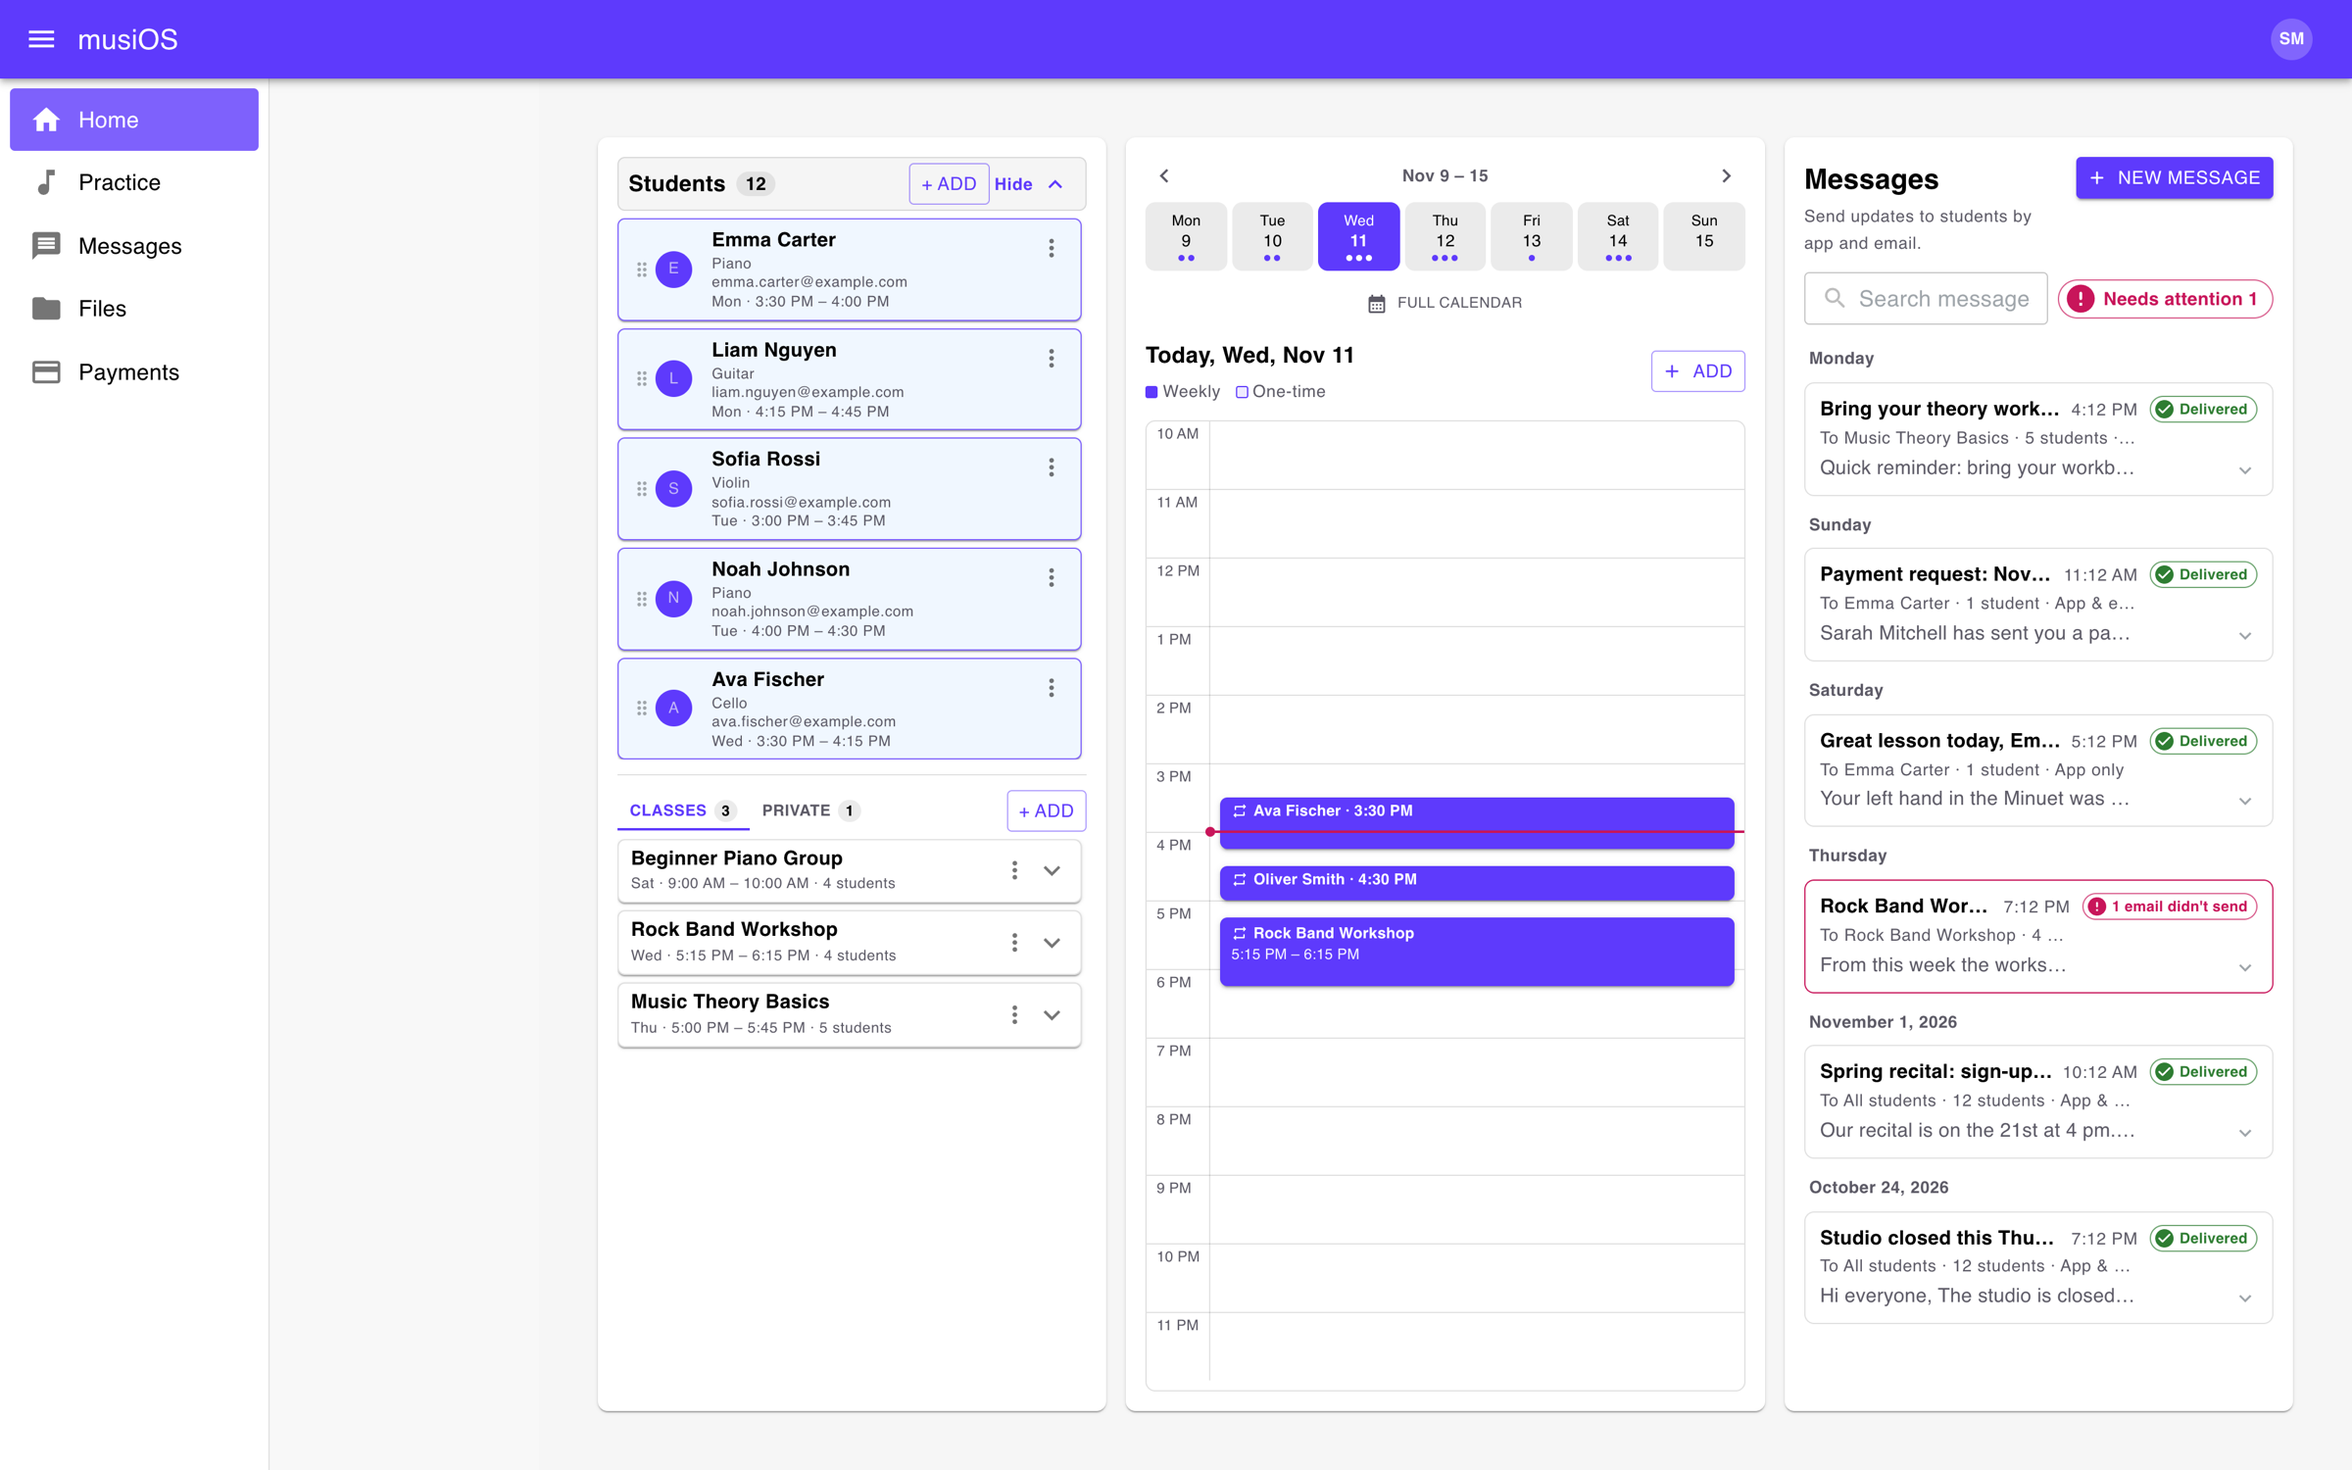
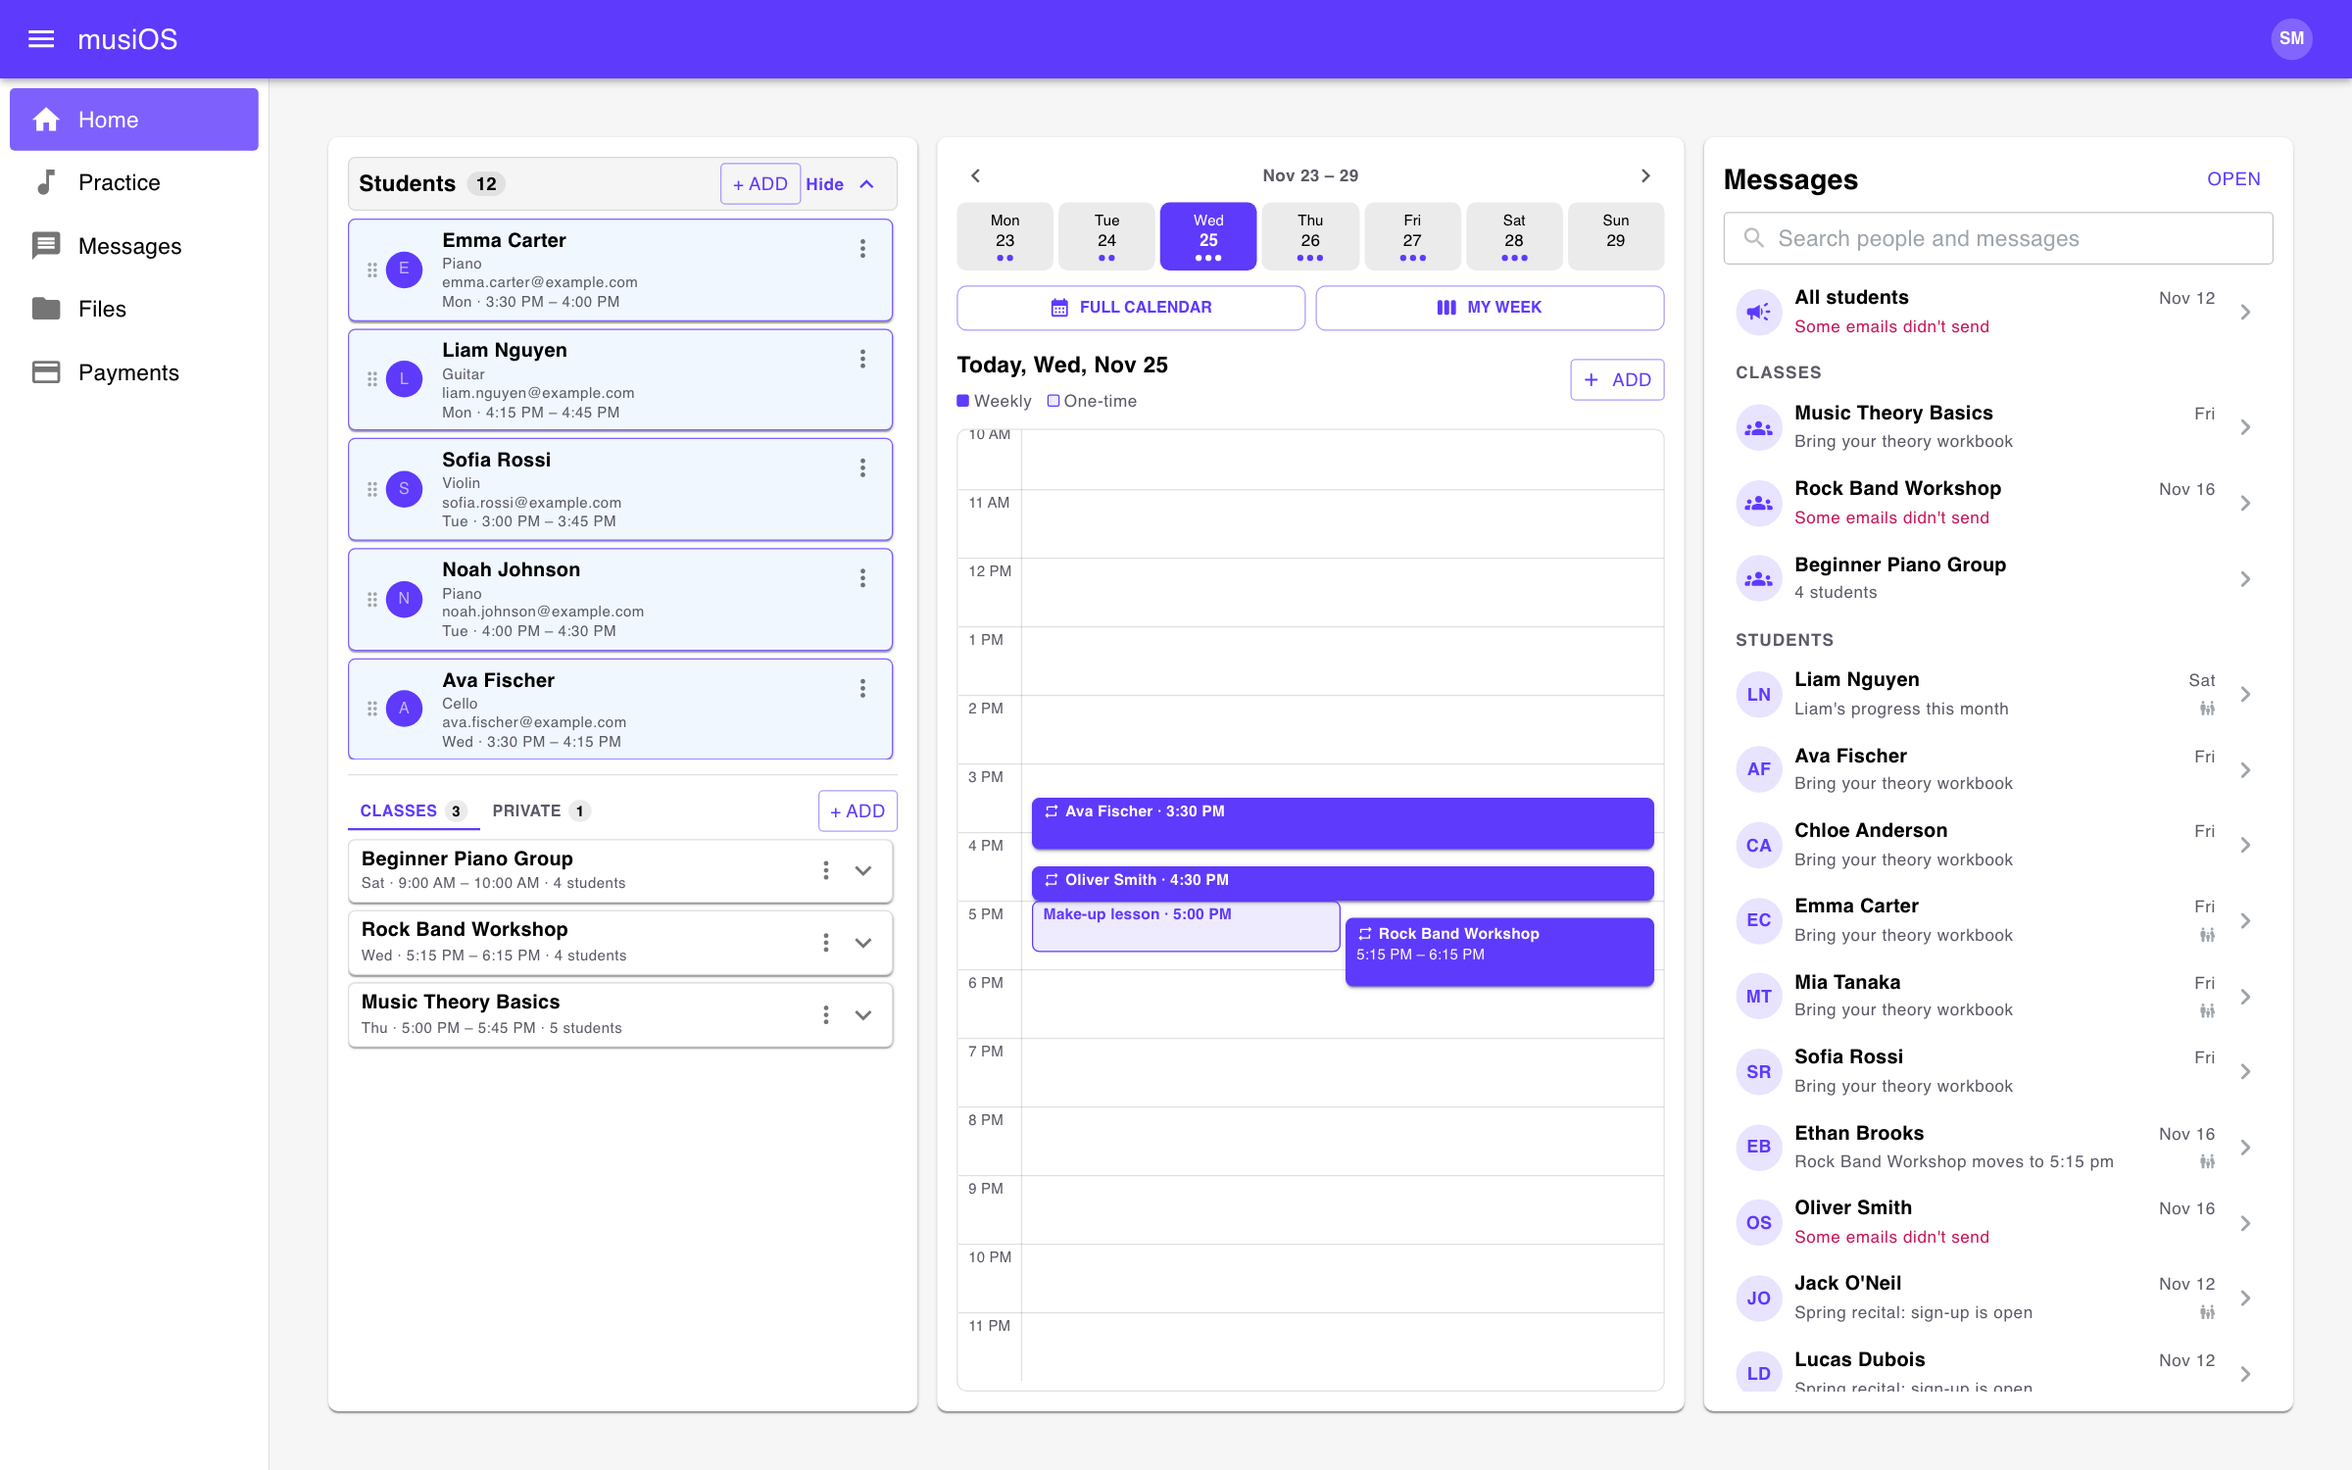
updates

diff --git a/components/Features.tsx b/components/Features.tsx
@@ -1,5 +1,5 @@
-import { MdCalendarMonth, MdQueueMusic, MdPayments, MdHandshake, MdForum, MdCheck } from "react-icons/md";
-import { PhoneFrame } from "./Frames";
+import { MdCalendarMonth, MdFamilyRestroom, MdQueueMusic, MdPayments, MdHandshake, MdForum, MdCheck } from "react-icons/md";
+import { LandscapePhoneFrame, PhoneFrame } from "./Frames";
 import Reveal from "./Reveal";
 import Screen from "./Screen";
 import SectionHeading from "./SectionHeading";
@@ -12,8 +12,21 @@ const FEATURES = [
     label: "Schedule & students",
     title: "See your week at a glance",
     body: "Every lesson and class on one calendar, with weekly lessons that repeat on their own. Add a student in seconds and invite them by email, text or QR code.",
-    points: ["Weekly lessons, classes and one-off events", "Drag a student into a class", "Syncs to your phone's calendar"],
+    points: ["My Week: all seven days on one timeline, wider when you turn your phone", "Drag a student into a class", "Syncs to your phone's calendar"],
     shot: { name: "schedule", label: "Teacher · Calendar day", alt: "A day of lessons and classes in the MusiOS calendar" },
+    wide: { name: "week", label: "Teacher · My Week, landscape", alt: "My Week on a phone held sideways, with every lesson from Monday to Sunday" },
+  },
+  {
+    icon: MdFamilyRestroom,
+    label: "Students & parents",
+    title: "For grown-ups, teens and little ones",
+    body: "Adults and teens manage their own lessons. For younger students, make a parent or guardian the main contact: they get the invitation, sign in with their own email, and handle payments and your studio policy.",
+    points: [
+      "Keep the student's details and the parent's apart",
+      "Add more contacts, and choose what each one gets by email",
+      "Children can sign in too, for practice, files and messages",
+    ],
+    shot: { name: "guardian", label: "Teacher · Student profile with a main contact", alt: "A student's profile in MusiOS, with their father as the main contact" },
   },
   {
     icon: MdQueueMusic,
@@ -47,9 +60,9 @@ const FEATURES = [
     icon: MdForum,
     label: "Messages",
     title: "Reach everyone in seconds",
-    body: "Message a student, a class or your whole studio, in the app and by email. Need to text? Send from your own phone, one student after another, without copying numbers.",
-    points: ["See who got it, and resend any email that failed", "Texts come from your number, sent individually", "One history of everything you've sent"],
-    shot: { name: "messages", label: "Teacher · Messages", alt: "Sent messages with delivery status in MusiOS" },
+    body: "Message a student, their parents, a class or your whole studio, in the app and by email. Need to text? Send from your own phone, one student after another, without copying numbers.",
+    points: ["See who got it, and resend any email that failed", "Texts come from your number, sent individually", "Everything you've sent, person by person"],
+    shot: { name: "messages", label: "Teacher · Messages, one student", alt: "Messages sent to one student and their parent in MusiOS, with who got each one" },
   },
 ];
 
@@ -82,10 +95,16 @@ const Features = () => (
                   ))}
                 </ul>
               </div>
-              <div className="flex justify-center rounded-[2rem] bg-gradient-to-br from-brand-soft to-indigo-50 px-6 py-12">
+              <div className="flex flex-col items-center rounded-[2rem] bg-gradient-to-br from-brand-soft to-indigo-50 px-6 py-12">
                 <PhoneFrame className="w-[230px] sm:w-[250px]">
                   <Screen {...f.shot} sizes="250px" />
                 </PhoneFrame>
+                {/* Overlaps the empty end of the day above it. */}
+                {"wide" in f && f.wide && (
+                  <LandscapePhoneFrame className="z-10 -mt-24 max-w-[440px] sm:-mt-28">
+                    <Screen {...f.wide} sizes="440px" />
+                  </LandscapePhoneFrame>
+                )}
               </div>
             </div>
           </Reveal>

diff --git a/components/WaitListModal.tsx b/components/WaitListModal.tsx
@@ -3,6 +3,7 @@
 import { useState } from "react";
 import { motion, AnimatePresence } from "framer-motion";
 import Link from "next/link";
+import { BETA_START } from "@/lib/beta";
 
 interface Props {
   isOpen: boolean;
@@ -82,18 +83,18 @@ const handleSubmit = async (e: React.FormEvent) => {
               <>
                 {/* Header */}
                 <h2 className="text-3xl font-bold text-center bg-gradient-to-b from-black to-[#002499] bg-clip-text text-transparent">
-                  MusiOS is launching soon
+                  Join the closed beta
                 </h2>
 
                 {/* Copy */}
                 <p className="mt-4 text-center text-gray-700 text-lg">
-                  We’re putting the finishing touches on MusiOS — a modern
-                  platform for music teachers to manage students, lessons,
-                  practice, and payments all in one place.
+                  Testing begins in <strong>{BETA_START}</strong>. Be one of the
+                  first music teachers to manage students, lessons, practice
+                  and payments with MusiOS.
                 </p>
 
                 <p className="mt-3 text-center text-gray-700">
-                  Join the waitlist and be the first to know when we go live.
+                  Sign up and we’ll email you with the next steps before it starts.
                 </p>
 
                 {/* Form */}
@@ -130,11 +131,11 @@ const handleSubmit = async (e: React.FormEvent) => {
                       disabled:opacity-50
                     "
                   >
-                    {loading ? "Joining…" : "Join the waitlist"}
+                    {loading ? "Signing up…" : "Sign up for the closed beta"}
                   </button>
 
                   <p className="text-center text-sm text-gray-500">
-                    By joining, you agree to our{" "}
+                    By signing up, you agree to our{" "}
                     <Link href="/privacy" className="underline hover:text-gray-700">
                       Privacy Policy
                     </Link>
@@ -146,10 +147,10 @@ const handleSubmit = async (e: React.FormEvent) => {
               /* Success */
               <div className="text-center py-10">
                 <h3 className="text-2xl font-bold mb-3">
-                  You’re on the list 🎉
+                  You’re signed up 🎉
                 </h3>
                 <p className="text-gray-700 text-lg">
-                  We’ll let you know as soon as MusiOS is ready.
+                  Closed beta testing begins in {BETA_START}. We’ll email you with the next steps before it starts.
                 </p>
               </div>
             )}

diff --git a/app/privacy/page.tsx b/app/privacy/page.tsx
@@ -12,7 +12,7 @@ export const metadata: Metadata = {
 
 export default function PrivacyPolicy() {
   return (
-    <LegalLayout title="Privacy Policy" lastUpdated="August 26, 2026">
+    <LegalLayout title="Privacy Policy" lastUpdated="November 25, 2026">
       <>
         <p>
           MusiOS is operated by <strong>Perkins Consult ApS</strong>, a
@@ -31,14 +31,14 @@ export default function PrivacyPolicy() {
         <h2>1. Who this applies to</h2>
         <p>
           This policy covers everyone who interacts with musios.io or the
-          MusiOS app: visitors joining our waitlist, teachers who sign up for
+          MusiOS app: visitors signing up for our closed beta, teachers who sign up for
           an account (&ldquo;Teachers&rdquo;), and — indirectly — the
           students Teachers manage inside the app (&ldquo;Students&rdquo;).
         </p>
 
         <h2>2. What we collect</h2>
         <p>
-          <strong>If you join the waitlist:</strong> just your email address,
+          <strong>If you sign up for the closed beta:</strong> just your email address,
           submitted through the sign-up form on this site.
         </p>
         <p>
@@ -76,7 +76,7 @@ export default function PrivacyPolicy() {
             for (contract necessity).
           </li>
           <li>
-            <strong>To communicate with you</strong> — waitlist updates,
+            <strong>To communicate with you</strong> — closed beta updates,
             service notices, and support (consent, for marketing emails; you
             can unsubscribe anytime).
           </li>
@@ -117,7 +117,7 @@ export default function PrivacyPolicy() {
             the EU/EEA.
           </li>
           <li>
-            <strong>Google (waitlist only)</strong> — waitlist submissions
+            <strong>Google (closed beta sign-ups only)</strong> — sign-ups
             are currently stored via a Google Sheets integration.
           </li>
         </ul>
@@ -130,7 +130,8 @@ export default function PrivacyPolicy() {
 
         <h2>6. How long we keep it</h2>
         <p>
-          Waitlist emails are kept until launch or until you ask us to
+          Closed beta sign-up emails (and any from our earlier waitlist)
+          are kept until launch or until you ask us to
           remove them. Account and Student data is kept for as long as the
           account is active, plus a reasonable period afterward to satisfy
           legal, tax, and dispute-resolution obligations, after which it is

diff --git a/components/Frames.tsx b/components/Frames.tsx
@@ -14,6 +14,18 @@ export function PhoneFrame({ children, className, onDark = false }: { children: 
   );
 }
 
+// The same phone turned sideways, for a landscape simulator screenshot
+// (2868 x 1320).
+export function LandscapePhoneFrame({ children, className }: { children: React.ReactNode; className?: string }) {
+  return (
+    <div className={twMerge("relative w-full", className)}>
+      <div className="rounded-[1.6rem] bg-neutral-900 p-[7px] shadow-[0_40px_70px_-30px_rgba(0,30,128,0.55)] ring-1 ring-black/10">
+        <div className="relative aspect-[2868/1320] overflow-hidden rounded-[1.2rem] bg-white">{children}</div>
+      </div>
+    </div>
+  );
+}
+
 export function BrowserFrame({ children, className, url = "musios.io/app" }: { children: React.ReactNode; className?: string; url?: string }) {
   return (
     <div className={twMerge("overflow-hidden rounded-2xl border border-slate-200 bg-white shadow-[0_40px_80px_-40px_rgba(0,30,128,0.5)]", className)}>

diff --git a/components/Hero.tsx b/components/Hero.tsx
@@ -2,6 +2,7 @@ import { FaArrowRight } from "react-icons/fa";
 import { PhoneFrame } from "./Frames";
 import Screen from "./Screen";
 import WaitlistButton from "./WaitlistButton";
+import { BETA_START } from "@/lib/beta";
 
 const Hero = () => (
   <section id="top" className="relative overflow-hidden bg-gradient-to-b from-brand-soft via-white to-white">
@@ -10,7 +11,7 @@ const Hero = () => (
     <div className="relative mx-auto grid max-w-6xl items-center gap-14 px-5 pb-20 pt-12 md:grid-cols-[1.1fr_1fr] md:pt-20 lg:pb-28">
       <div>
         <p className="inline-flex rounded-full border border-brand/15 bg-white px-3 py-1 text-sm font-medium text-brand shadow-sm">
-          For music teachers · Closed beta
+          For music teachers · Closed beta starts {BETA_START}
         </p>
         <h1 className="mt-5 text-5xl font-black tracking-tight text-ink [text-wrap:balance] sm:text-6xl lg:text-7xl">
           Teach music, not admin.

diff --git a/components/CTA.tsx b/components/CTA.tsx
@@ -1,5 +1,6 @@
 import Reveal from "./Reveal";
 import WaitlistButton from "./WaitlistButton";
+import { BETA_START } from "@/lib/beta";
 
 const CTA = () => (
   <section id="join" className="bg-white px-5 pb-24 sm:pb-28">
@@ -10,7 +11,7 @@ const CTA = () => (
           Spend your time on the music.
         </h2>
         <p className="relative mx-auto mt-4 max-w-xl text-lg text-indigo-100/85">
-          MusiOS opens to new teachers soon. Join the waitlist and you&apos;ll be the first to know.
+          Closed beta testing begins in {BETA_START}. Sign up now and we&apos;ll email you before it starts.
         </p>
         <WaitlistButton size="lg" variant="light" className="relative mt-8" />
         <p className="relative mt-4 text-sm text-indigo-100/70">Free trial with up to 4 students and 1 class. No time limit.</p>

diff --git a/components/FAQ.tsx b/components/FAQ.tsx
@@ -3,6 +3,7 @@
 import { useState } from "react";
 import { motion, AnimatePresence, MotionConfig } from "framer-motion";
 import { FaChevronDown } from "react-icons/fa";
+import { BETA_START } from "@/lib/beta";
 
 // Answers describe the app as it is today. Also used on /support.
 const faqs = [
@@ -14,7 +15,7 @@ const faqs = [
   {
     question: "When can I start using it?",
     answer:
-      "MusiOS is in a closed beta right now. Join the waitlist and we'll email you as soon as it opens to new teachers.",
+      `Closed beta testing begins in ${BETA_START}. Sign up for the closed beta and we'll email you with the next steps before it starts.`,
   },
   {
     question: "How much does it cost?",

diff --git a/components/WaitlistButton.tsx b/components/WaitlistButton.tsx
@@ -15,9 +15,9 @@ const VARIANTS = {
   dark: "bg-ink text-white hover:bg-black",
 };
 
-// Every sign-up button on the site opens the same waitlist dialog.
+// Every sign-up button on the site opens the same closed beta dialog.
 export default function WaitlistButton({
-  children = "Join the waitlist",
+  children = "Join the closed beta",
   size = "md",
   variant = "primary",
   className,

diff --git a/components/Header.tsx b/components/Header.tsx
@@ -25,7 +25,7 @@ const Header = () => (
           </a>
         ))}
       </nav>
-      <WaitlistButton size="sm">Join the waitlist</WaitlistButton>
+      <WaitlistButton size="sm" />
     </div>
   </header>
 );

diff --git a/lib/beta.ts b/lib/beta.ts
@@ -1,0 +1,2 @@
+// When closed beta testing starts. Shown across the site, so change it here.
+export const BETA_START = "January 2027";
